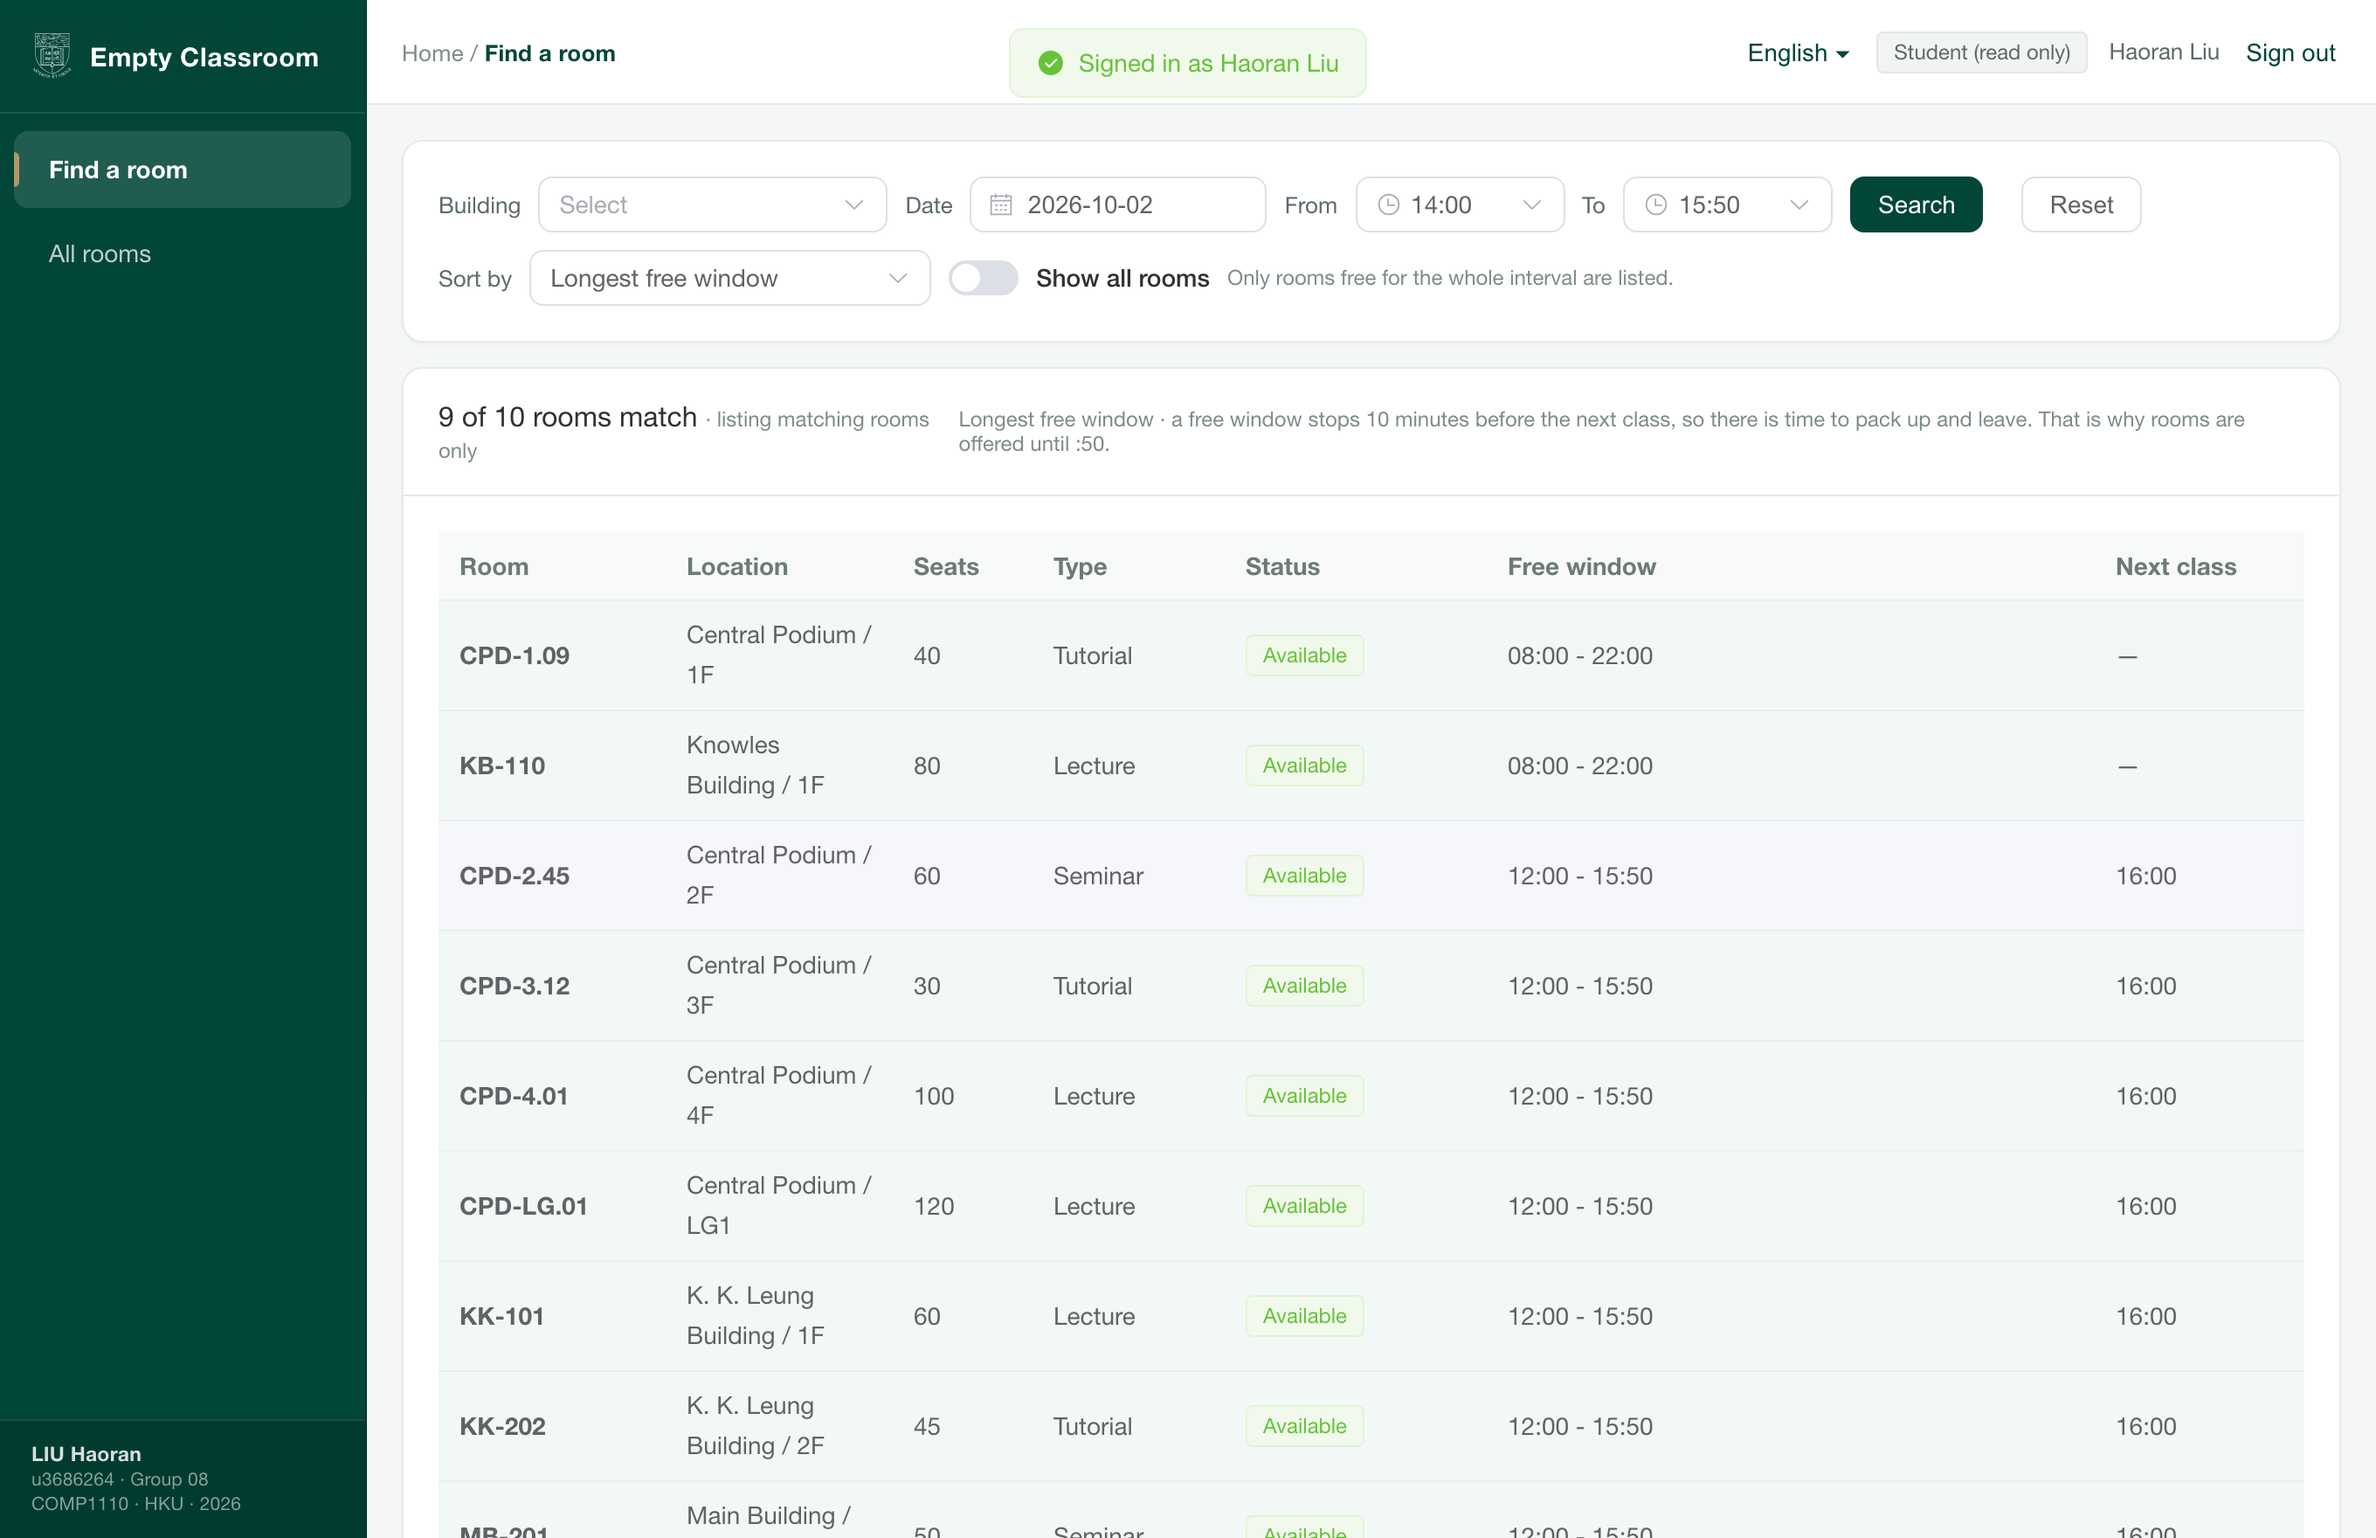
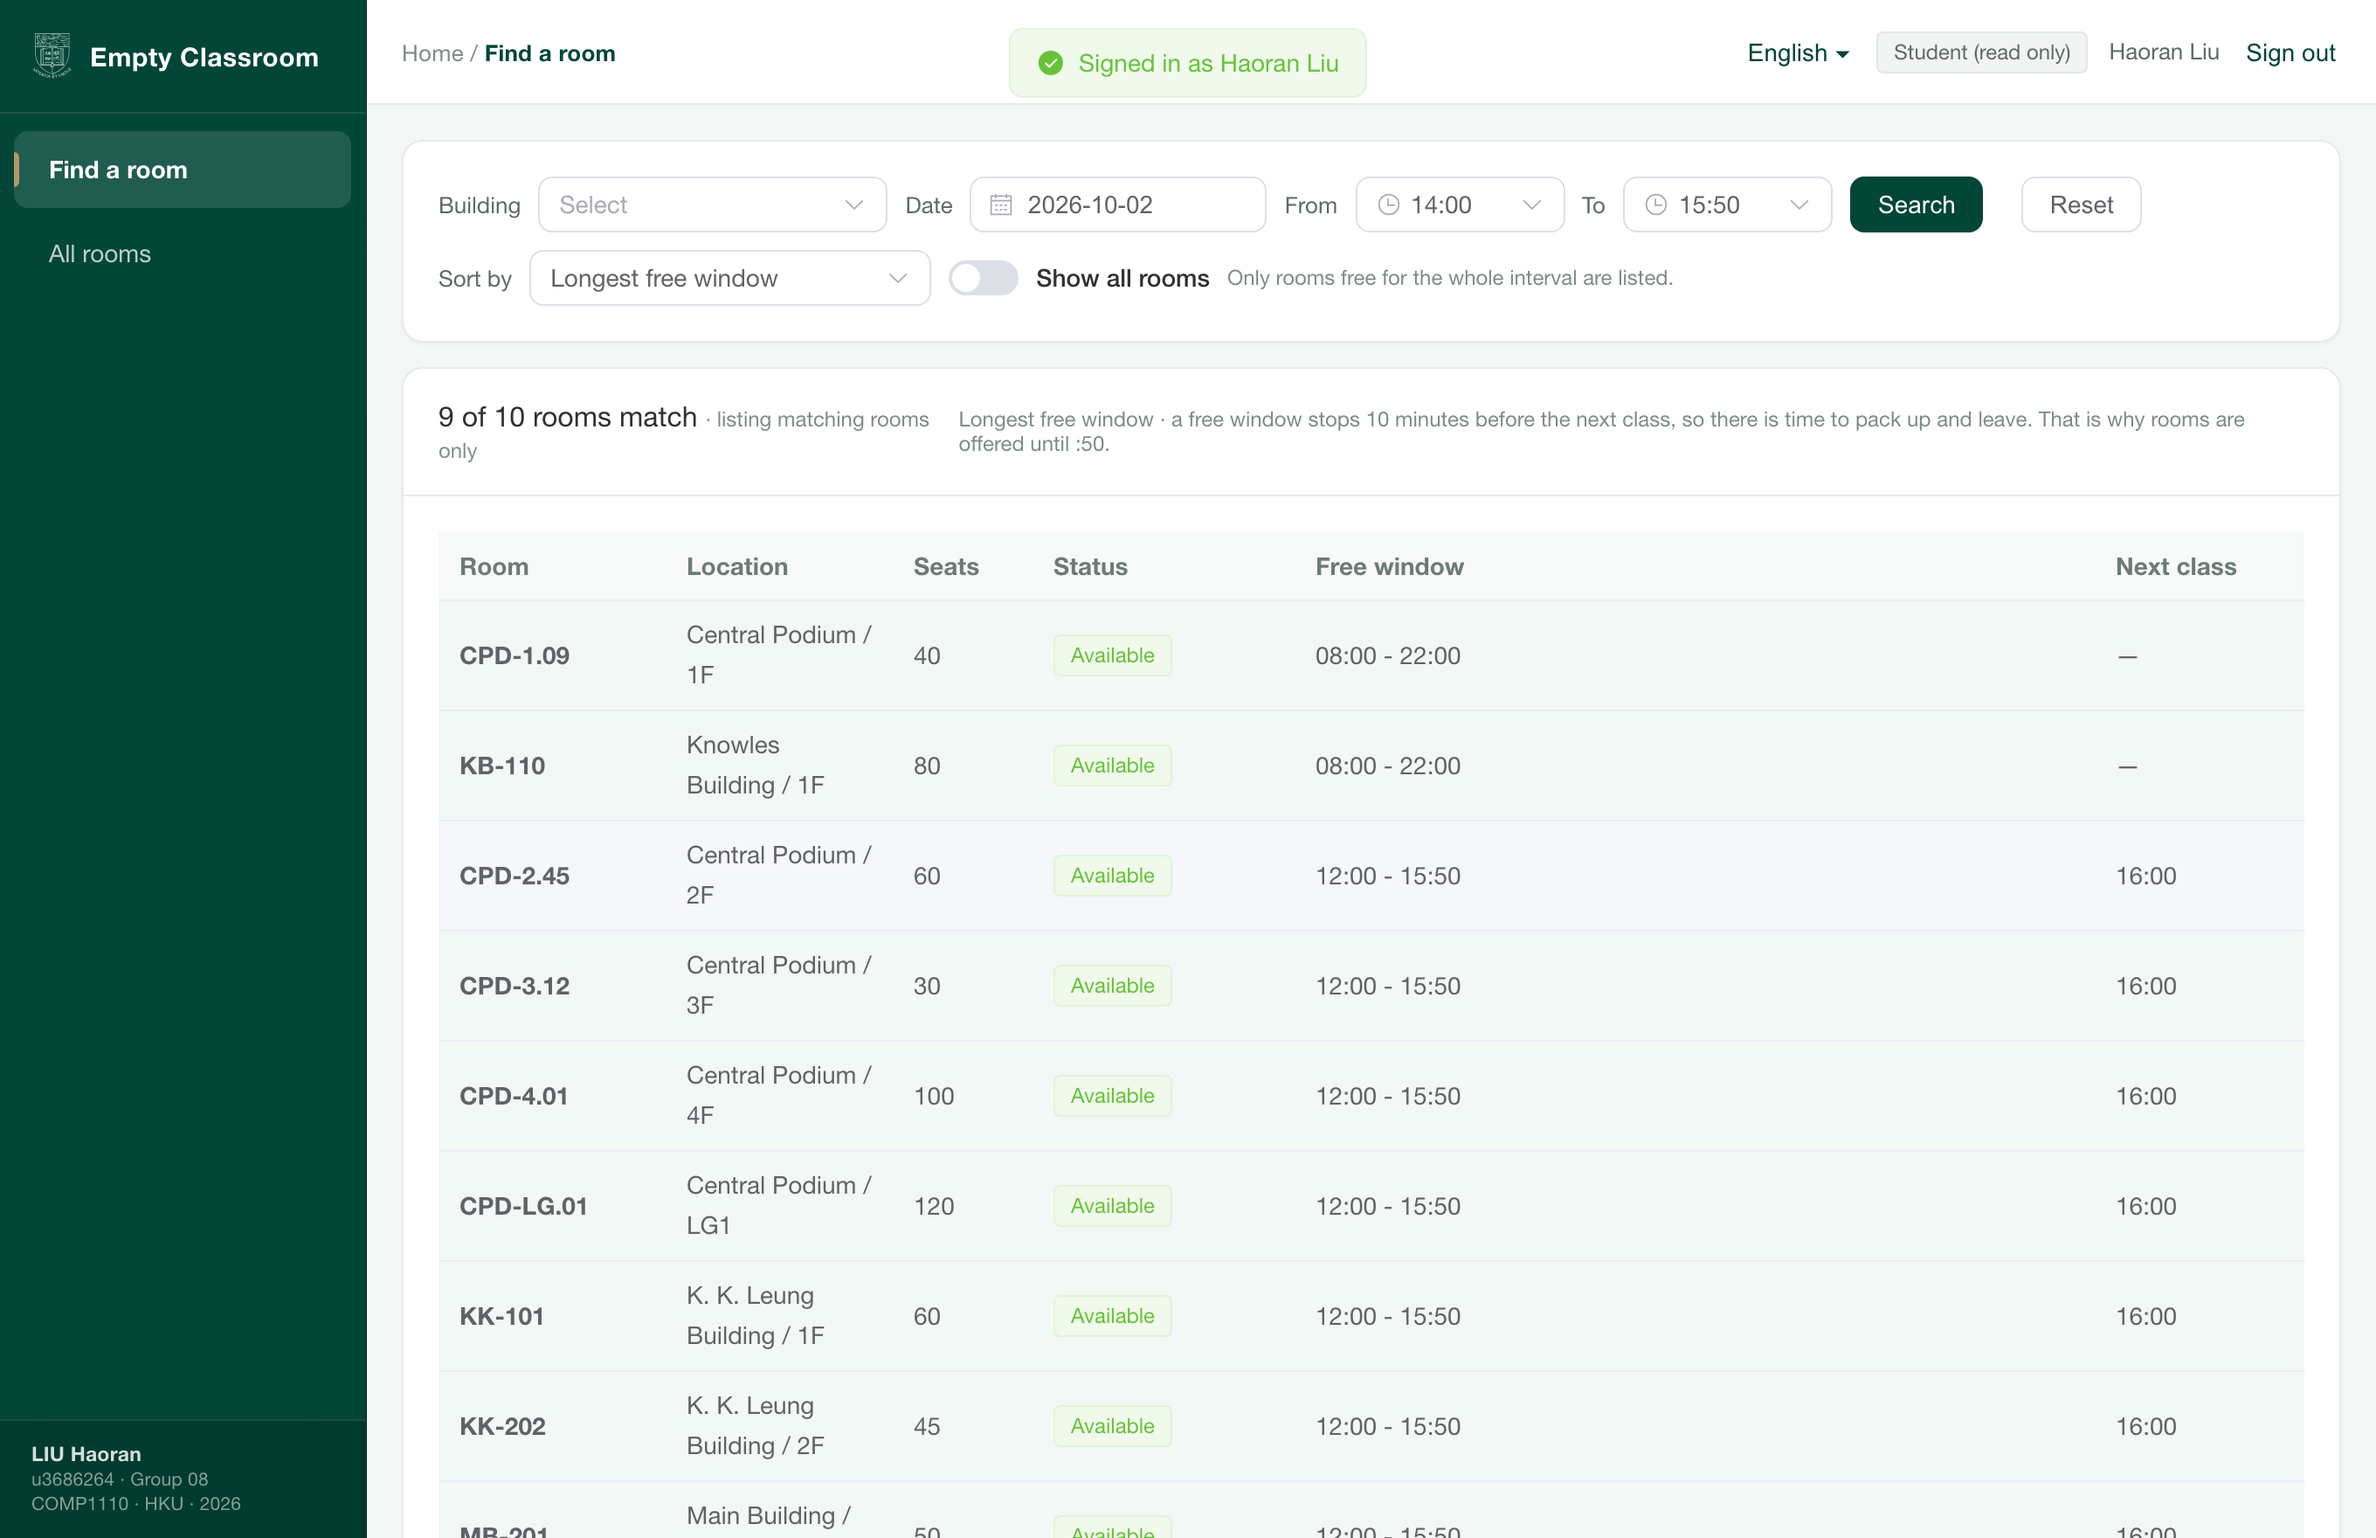
Remove room type: a room has no fixed purpose and the University has no such data
The user's reasoning: Lecture / Tutorial / Seminar describes how one course happens to use
a room, not a property the room has, and HKU does not publish such a field. So it should
not be in the model at all rather than merely hidden.

- V14__drop_room_type.sql drops rooms.room_type; the column is gone from the database, not
  just from the interface.
- the Room entity, Dtos.RoomView and RoomService.view no longer carry it, and the test that
  built a Room with setRoomType was updated.
- front end: the Type column in the find table, the type label in the room list, and the
  Type row in the room detail panel are gone, plus the colType string in all three
  languages. The detail grid went from four columns to three.
- seatType (Fixed rows / Long shared table / Individual desks) is a separate facilities
  field and was deliberately left alone.
- the six README screenshots were re-shot.

Verified: \d rooms on the live database shows no room_type column; flyway_schema_history
is at V14 with success=t; GET /api/rooms returns no roomType field; 27/27 tests pass;
frontend builds.

diff --git a/frontend/src/i18n/messages.js b/frontend/src/i18n/messages.js
@@ -57,7 +57,7 @@ export default {
       listingMatching: 'listing matching rooms only', listingEvery: 'listing every room',
       freeStops: 'a free window stops 10 minutes before the next class, so there is time to '
         + 'pack up and leave. That is why rooms are offered until :50.',
-      colRoom: 'Room', colLocation: 'Location', colSeats: 'Seats', colType: 'Type',
+      colRoom: 'Room', colLocation: 'Location', colSeats: 'Seats',
       colStatus: 'Status', colWindow: 'Free window', colNext: 'Next class',
       after: 'after {time}', noWindowLong: 'no window long enough',
       empty: "No room is free for that whole interval. Try a shorter interval, another "
@@ -200,7 +200,7 @@ export default {
       matched: '符合 {matched} / 共 {total} 间教室',
       listingMatching: '只列出符合条件的教室', listingEvery: '列出全部教室',
       freeStops: '空闲窗口在下一节课前 10 分钟结束，留出收拾离开的时间——所以可选到 :50。',
-      colRoom: '教室', colLocation: '位置', colSeats: '座位', colType: '类型',
+      colRoom: '教室', colLocation: '位置', colSeats: '座位',
       colStatus: '状态', colWindow: '空闲窗口', colNext: '下节课',
       after: '{time} 之后', noWindowLong: '没有足够长的空档',
       empty: '没有教室在整段时间都空着。可以缩短时间、换楼栋，或打开「显示全部教室」。',
@@ -336,7 +336,7 @@ export default {
       matched: '符合 {matched} / 共 {total} 間教室',
       listingMatching: '只列出符合條件的教室', listingEvery: '列出全部教室',
       freeStops: '空檔在下一節課前 10 分鐘結束，留出收拾離開的時間——所以可選到 :50。',
-      colRoom: '教室', colLocation: '位置', colSeats: '座位', colType: '類型',
+      colRoom: '教室', colLocation: '位置', colSeats: '座位',
       colStatus: '狀態', colWindow: '空檔', colNext: '下節課',
       after: '{time} 之後', noWindowLong: '沒有足夠長的空檔',
       empty: '沒有教室在整段時間都空著。可以縮短時間、換樓棟，或打開「顯示全部教室」。',

diff --git a/frontend/src/views/AllRooms.vue b/frontend/src/views/AllRooms.vue
@@ -21,7 +21,6 @@
              :class="{ active: selected && selected.id === r.id }" @click="select(r)">
           <div class="ri-top">
             <b>{{ r.code }}</b>
-            <span class="ri-type">{{ r.roomType }}</span>
           </div>
           <div class="ri-meta">
             {{ r.building }} / {{ r.floor }} &middot; {{ r.capacity }} {{ t('find.colSeats') }}
@@ -42,9 +41,8 @@
           </div>
         </template>
 
-        <el-descriptions :column="4" border size="small">
+        <el-descriptions :column="3" border size="small">
           <el-descriptions-item :label="t('find.colSeats')">{{ selected.capacity }}</el-descriptions-item>
-          <el-descriptions-item :label="t('find.colType')">{{ selected.roomType }}</el-descriptions-item>
           <el-descriptions-item :label="t('find.building')">{{ selected.building }}</el-descriptions-item>
           <el-descriptions-item :label="t('common.floor')">{{ selected.floor }}</el-descriptions-item>
         </el-descriptions>
@@ -364,7 +362,6 @@ watch(() => t('app.name'), () => {
 .room-item.active { background: #e4efeb; box-shadow: inset 3px 0 0 #b49764; }
 .ri-top { display: flex; justify-content: space-between; align-items: baseline; font-size: 13px; }
 .ri-meta { color: #7d8c88; font-size: 11.5px; }
-.ri-type { color: #7d8c88; font-size: 11px; }
 .ri-stars { color: #E6A23C; }
 .card-head { display: flex; justify-content: space-between; align-items: center; gap: 10px; }
 .hint { color: #7d8c88; font-size: 12px; }

diff --git a/frontend/src/views/FindRoom.vue b/frontend/src/views/FindRoom.vue
@@ -58,7 +58,6 @@
           <template #default="{ row }">{{ row.room.building }} / {{ row.room.floor }}</template>
         </el-table-column>
         <el-table-column prop="room.capacity" :label="t('find.colSeats')" width="80" />
-        <el-table-column prop="room.roomType" :label="t('find.colType')" width="110" />
         <el-table-column :label="t('find.colStatus')" width="150">
           <template #default="{ row }">
             <el-tag :type="tagType(row.status)" effect="light">{{ statusText(row.status) }}</el-tag>

diff --git a/backend/src/main/java/hku/ec/domain/Room.java b/backend/src/main/java/hku/ec/domain/Room.java
@@ -27,9 +27,6 @@ public class Room {
     @Column(name = "capacity", nullable = false)
     private Integer capacity;
 
-    @Column(name = "room_type", nullable = false)
-    private String roomType;
-
     // —— 设施（第一批三条）：座位总数用 capacity；下面两条是新增的 ——
     @Column(name = "sockets")
     private Boolean sockets;
@@ -55,9 +52,6 @@ public class Room {
 
     public Integer getCapacity() { return capacity; }
     public void setCapacity(Integer capacity) { this.capacity = capacity; }
-
-    public String getRoomType() { return roomType; }
-    public void setRoomType(String roomType) { this.roomType = roomType; }
 
     public Boolean getSockets() { return sockets; }
     public void setSockets(Boolean sockets) { this.sockets = sockets; }

diff --git a/backend/src/main/java/hku/ec/web/Dtos.java b/backend/src/main/java/hku/ec/web/Dtos.java
@@ -14,7 +14,7 @@ public final class Dtos {
 
     public record LoginResponse(String token, String username, String displayName, String role) { }
 
-    public record RoomView(Long id, String code, String building, String floor, int capacity, String roomType,
+    public record RoomView(Long id, String code, String building, String floor, int capacity,
                            Boolean sockets, String seatType, String facilitiesVerifiedAt) { }
 
     /** 一个空闲窗口，时间是 "HH:mm" */

diff --git a/backend/src/main/java/hku/ec/service/RoomService.java b/backend/src/main/java/hku/ec/service/RoomService.java
@@ -33,7 +33,7 @@ public class RoomService {
     /** 房间出参（列表、可用性接口共用） */
     public static Dtos.RoomView view(Room r) {
         return new Dtos.RoomView(r.getId(), r.getCode(), r.getBuilding(), r.getFloor(), r.getCapacity(),
-                r.getRoomType(), r.getSockets(), r.getSeatType(),
+                r.getSockets(), r.getSeatType(),
                 r.getFacilitiesVerifiedAt() == null ? null : r.getFacilitiesVerifiedAt().format(TS));
     }
 

diff --git a/backend/src/test/java/hku/ec/service/AvailabilityServiceTest.java b/backend/src/test/java/hku/ec/service/AvailabilityServiceTest.java
@@ -59,7 +59,6 @@ class AvailabilityServiceTest {
         room.setBuilding(BUILDING);
         room.setFloor("1F");
         room.setCapacity(40);
-        room.setRoomType("Tutorial");
         room = rooms.save(room);
     }
 
